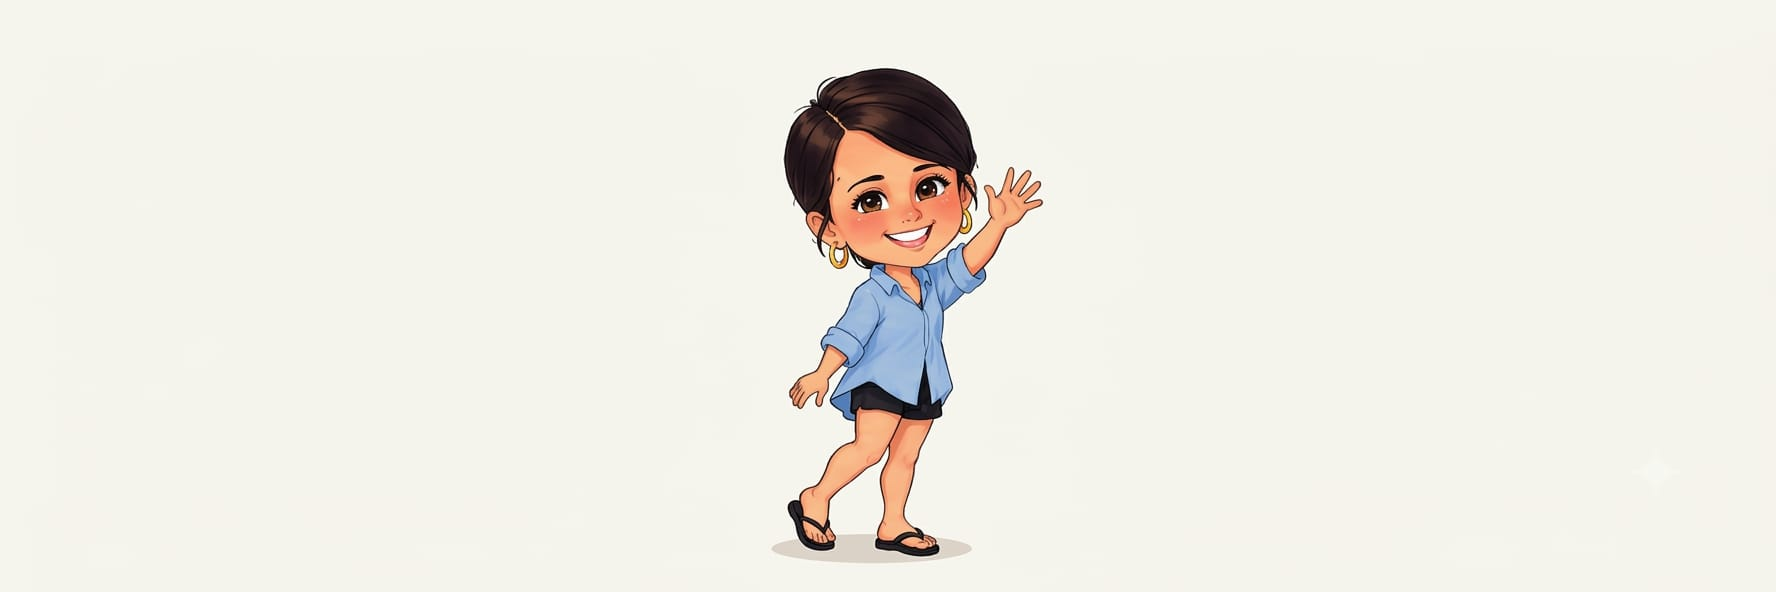
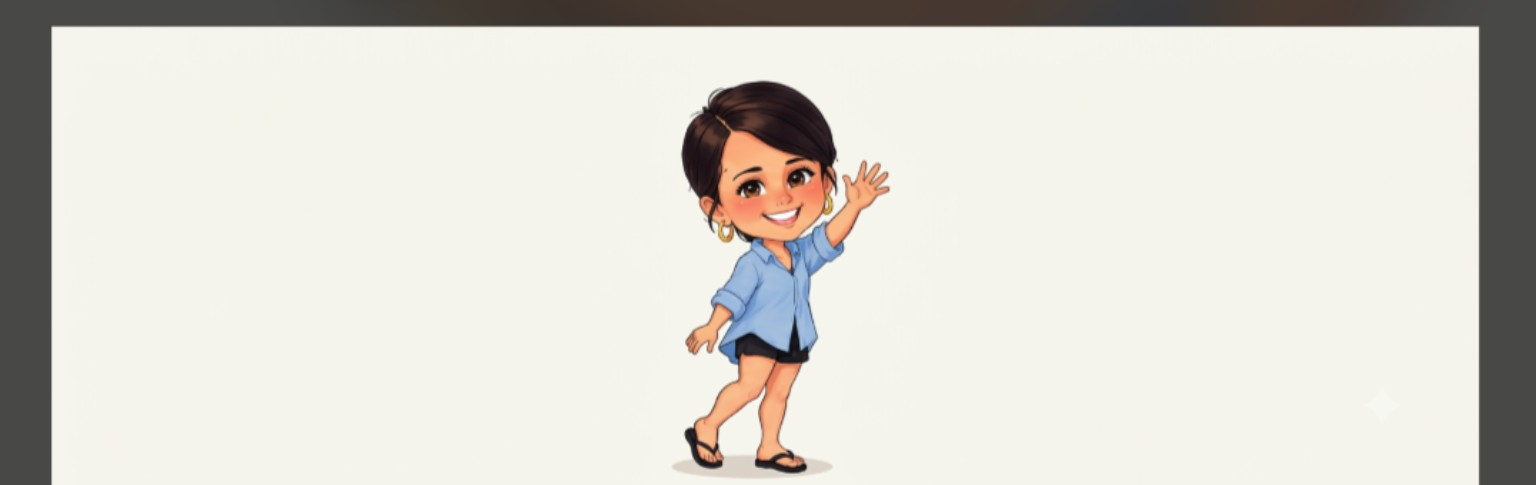
Version 9.1 AI

Changed region(s): [[0.0, 0.0, 1.0, 1.0], [0.4375, 0.0928, 0.5938, 0.9897]]

diff --git a/app.js b/app.js
@@ -615,19 +615,32 @@ const NICKY_IMG='/assets/nicky-profile.png';
 const NICKY_REPLY_IMG='/assets/nicky.jpeg';
 state.nickyAttachment=state.nickyAttachment||null;
 function renderNickyLauncher(){return `<button class="nicky-launcher" data-action="nicky-open" aria-label="Ask Nicky"><span class="nicky-launcher-avatar"><img src="${NICKY_IMG}" alt="Nicky"></span><span class="nicky-launcher-copy"><b>Ask Nicky</b><small>Bali concierge</small></span><i>✨</i></button>`}
-function nickyContext(){
+function nickyContext(location=null){
+  const guideDetails=(typeof GUIDE!=='undefined'?GUIDE:[]).map((x,i)=>({
+    title:x.title||x[0]||'',description:x.desc||x[1]||'',slug:x.slug||'',
+    appContent:(typeof guidePageContent==='function'&&x.slug)?String(guidePageContent(x.slug)).replace(/<[^>]+>/g,' ').replace(/\s+/g,' ').trim().slice(0,5000):''
+  }));
   return {
-    guest:{name:state.profile.name||'Guest'},
+    source:'LIVE B.B.B APP STATE',
+    capturedAt:new Date().toISOString(),
+    deviceLocalTime:new Date().toString(),
+    guest:{name:state.profile.name||'Guest',profile:state.profile||{}},
+    currentLocation:location||null,
     accommodation:{name:CFG.villa,address:CFG.address,phone:CFG.villaPhone,website:CFG.villaWebsite},
     driver:{name:'Made',whatsapp:CFG.madeWhatsapp},
     itinerary:ITINERARY.map(x=>({time:x[0],title:x[1],details:x[2]})),
     airportPickup:state.airportPickup||null,
-    plans:state.plans||[],
-    flights:state.flight||{},
-    baliGuide:(typeof GUIDE!=='undefined'?GUIDE:[]).map(x=>({title:x.title,description:x.desc,slug:x.slug})),
-    usefulLinks:{laundry:CFG.laundry,drive:CFG.drive}
+    airportPickupOptions:{note:'The app explicitly offers Made airport pickup and allows guests to add cold drinks to be waiting when they land.',prices:{'Kuta / Legian':'$30 AUD','Seminyak':'$40 AUD'},drinks:typeof MADE_DRINKS!=='undefined'?MADE_DRINKS:[]},
+    plans:state.plans||[],bookings:state.bookings||[],flights:state.flight||{},
+    checklist:state.checklist||{},drinkCart:state.drinkCart||[],drinkOrders:state.drinkOrders||[],cart:state.cart||[],
+    baliGuide:guideDetails,
+    usefulLinks:{laundry:CFG.laundry,drive:CFG.drive,villaWebsite:CFG.villaWebsite},
+    appConfig:{villa:CFG.villa,address:CFG.address,villaPhone:CFG.villaPhone,madeWhatsapp:CFG.madeWhatsapp,laundry:CFG.laundry}
   }
 }
+function nickyNeedsLocation(q){return /\b(near me|nearby|closest|walking distance|walkable|where can i|where should i|where to|eat tonight|dinner tonight|lunch|breakfast near|restaurant|restaurants|bar|bars|cafe|cafes|coffee|pharmacy|chemist|massage|spa|nails|supermarket|shop|shopping|beach club|what'?s around)\b/i.test(String(q||''))}
+function nickyGetLocation(){return new Promise(resolve=>{if(!navigator.geolocation)return resolve(null);navigator.geolocation.getCurrentPosition(p=>resolve({latitude:p.coords.latitude,longitude:p.coords.longitude,accuracyMetres:Math.round(p.coords.accuracy||0),capturedAt:new Date().toISOString()}),()=>resolve(null),{enableHighAccuracy:true,timeout:7000,maximumAge:120000})})}
+
 function nickyWelcome(){return {role:'assistant',text:`Hey ${(state.profile.name||'there').split(' ')[0]}! 🌴 I’m Nicky, your B.B.B Bali concierge. What can I help you with?`}}
 function nickyTextHtml(text){
   let safe=escapeHtml(String(text||''));
@@ -671,7 +684,8 @@ async function nickyAsk(question){
   state.nickyMessages.push({role:'user',text:q});state.nickyBusy=true;db.set('bbb_nicky_messages',state.nickyMessages);renderNicky();
   try{
     const history=state.nickyMessages.slice(-10).map(x=>({role:x.role,content:x.text}));
-    const res=await fetch('/api/ask-nicky',{method:'POST',headers:{'Content-Type':'application/json'},body:JSON.stringify({message:q,history,context:nickyContext(),attachment:state.nickyAttachment})});
+    const location=nickyNeedsLocation(q)?await nickyGetLocation():null;
+    const res=await fetch('/api/ask-nicky',{method:'POST',headers:{'Content-Type':'application/json'},body:JSON.stringify({message:q,history,context:nickyContext(location),attachment:state.nickyAttachment})});
     const data=await res.json().catch(()=>({}));if(!res.ok)throw new Error(data.error||'Ask Nicky is unavailable');
     state.nickyMessages.push({role:'assistant',text:data.answer||'I’m not sure about that one yet.',sources:data.sources||[],actions:data.actions||[]});state.nickyAttachment=null;
   }catch(err){state.nickyMessages.push({role:'assistant',text:'I couldn’t connect just then. Try again in a moment — or ask Shannon if it’s urgent.'})}

diff --git a/sw.js b/sw.js
@@ -1,4 +1,4 @@
-const CACHE='bbb-v10-ask-nicky-polished';
+const CACHE='bbb-v11-nicky-app-location';
 const SHELL=['/','/index.html','/styles.css','/app.js','/manifest.json','/icon.svg'];
 self.addEventListener('install',event=>{self.skipWaiting();event.waitUntil(caches.open(CACHE).then(c=>c.addAll(SHELL)).catch(()=>{}))});
 self.addEventListener('activate',event=>{event.waitUntil(caches.keys().then(keys=>Promise.all(keys.filter(k=>k!==CACHE).map(k=>caches.delete(k)))).then(()=>self.clients.claim()))});
